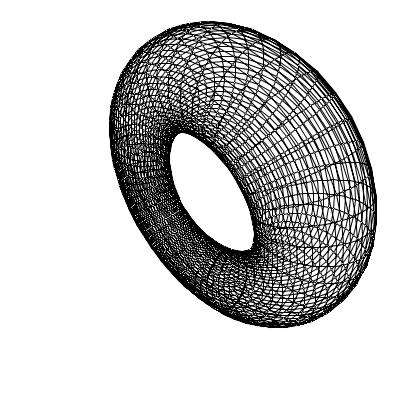
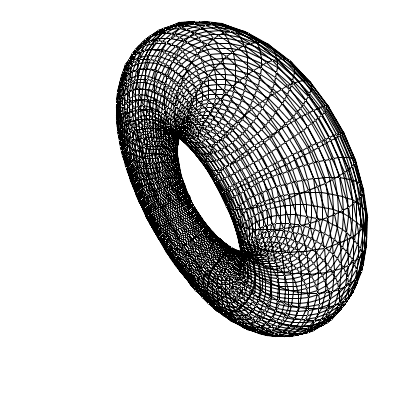
Update doc in line with change to rotate method

Changed region(s): [[0.27, 0.03, 0.96, 0.84]]

diff --git a/README.md b/README.md
@@ -40,15 +40,11 @@ For example, in Clojure, to generate a torus angled in the Y- and Z-axles, writt
 out to a PNG file:
 
 ```clojure
-(def angle (degrees->radians 65))
-
-(def img 
+(def img
   (->img
     (concat
-      (rotate angle)
-      (transpose-axes :y :z)
-      (rotate (/ angle 1.618))
-      (transpose-axes :y :z)
+      (rotate :z (degrees->radians 65))
+      (rotate :y (degrees->radians -30))
       (translate 0 0 6))
     (make-torus 1 3 60 60)
     [400 400]))
@@ -65,6 +61,7 @@ Produces:
 * Efficiently calculate polygons on shapes
 * Rewrite/rename wireframes.transform/concat - unroll loops for performance
 * Complete Bezier patch code
+* Rectilinear perspective mapping
 * SVG renderer
 * Canvas renderer
 * Simple flat shading / lighting
